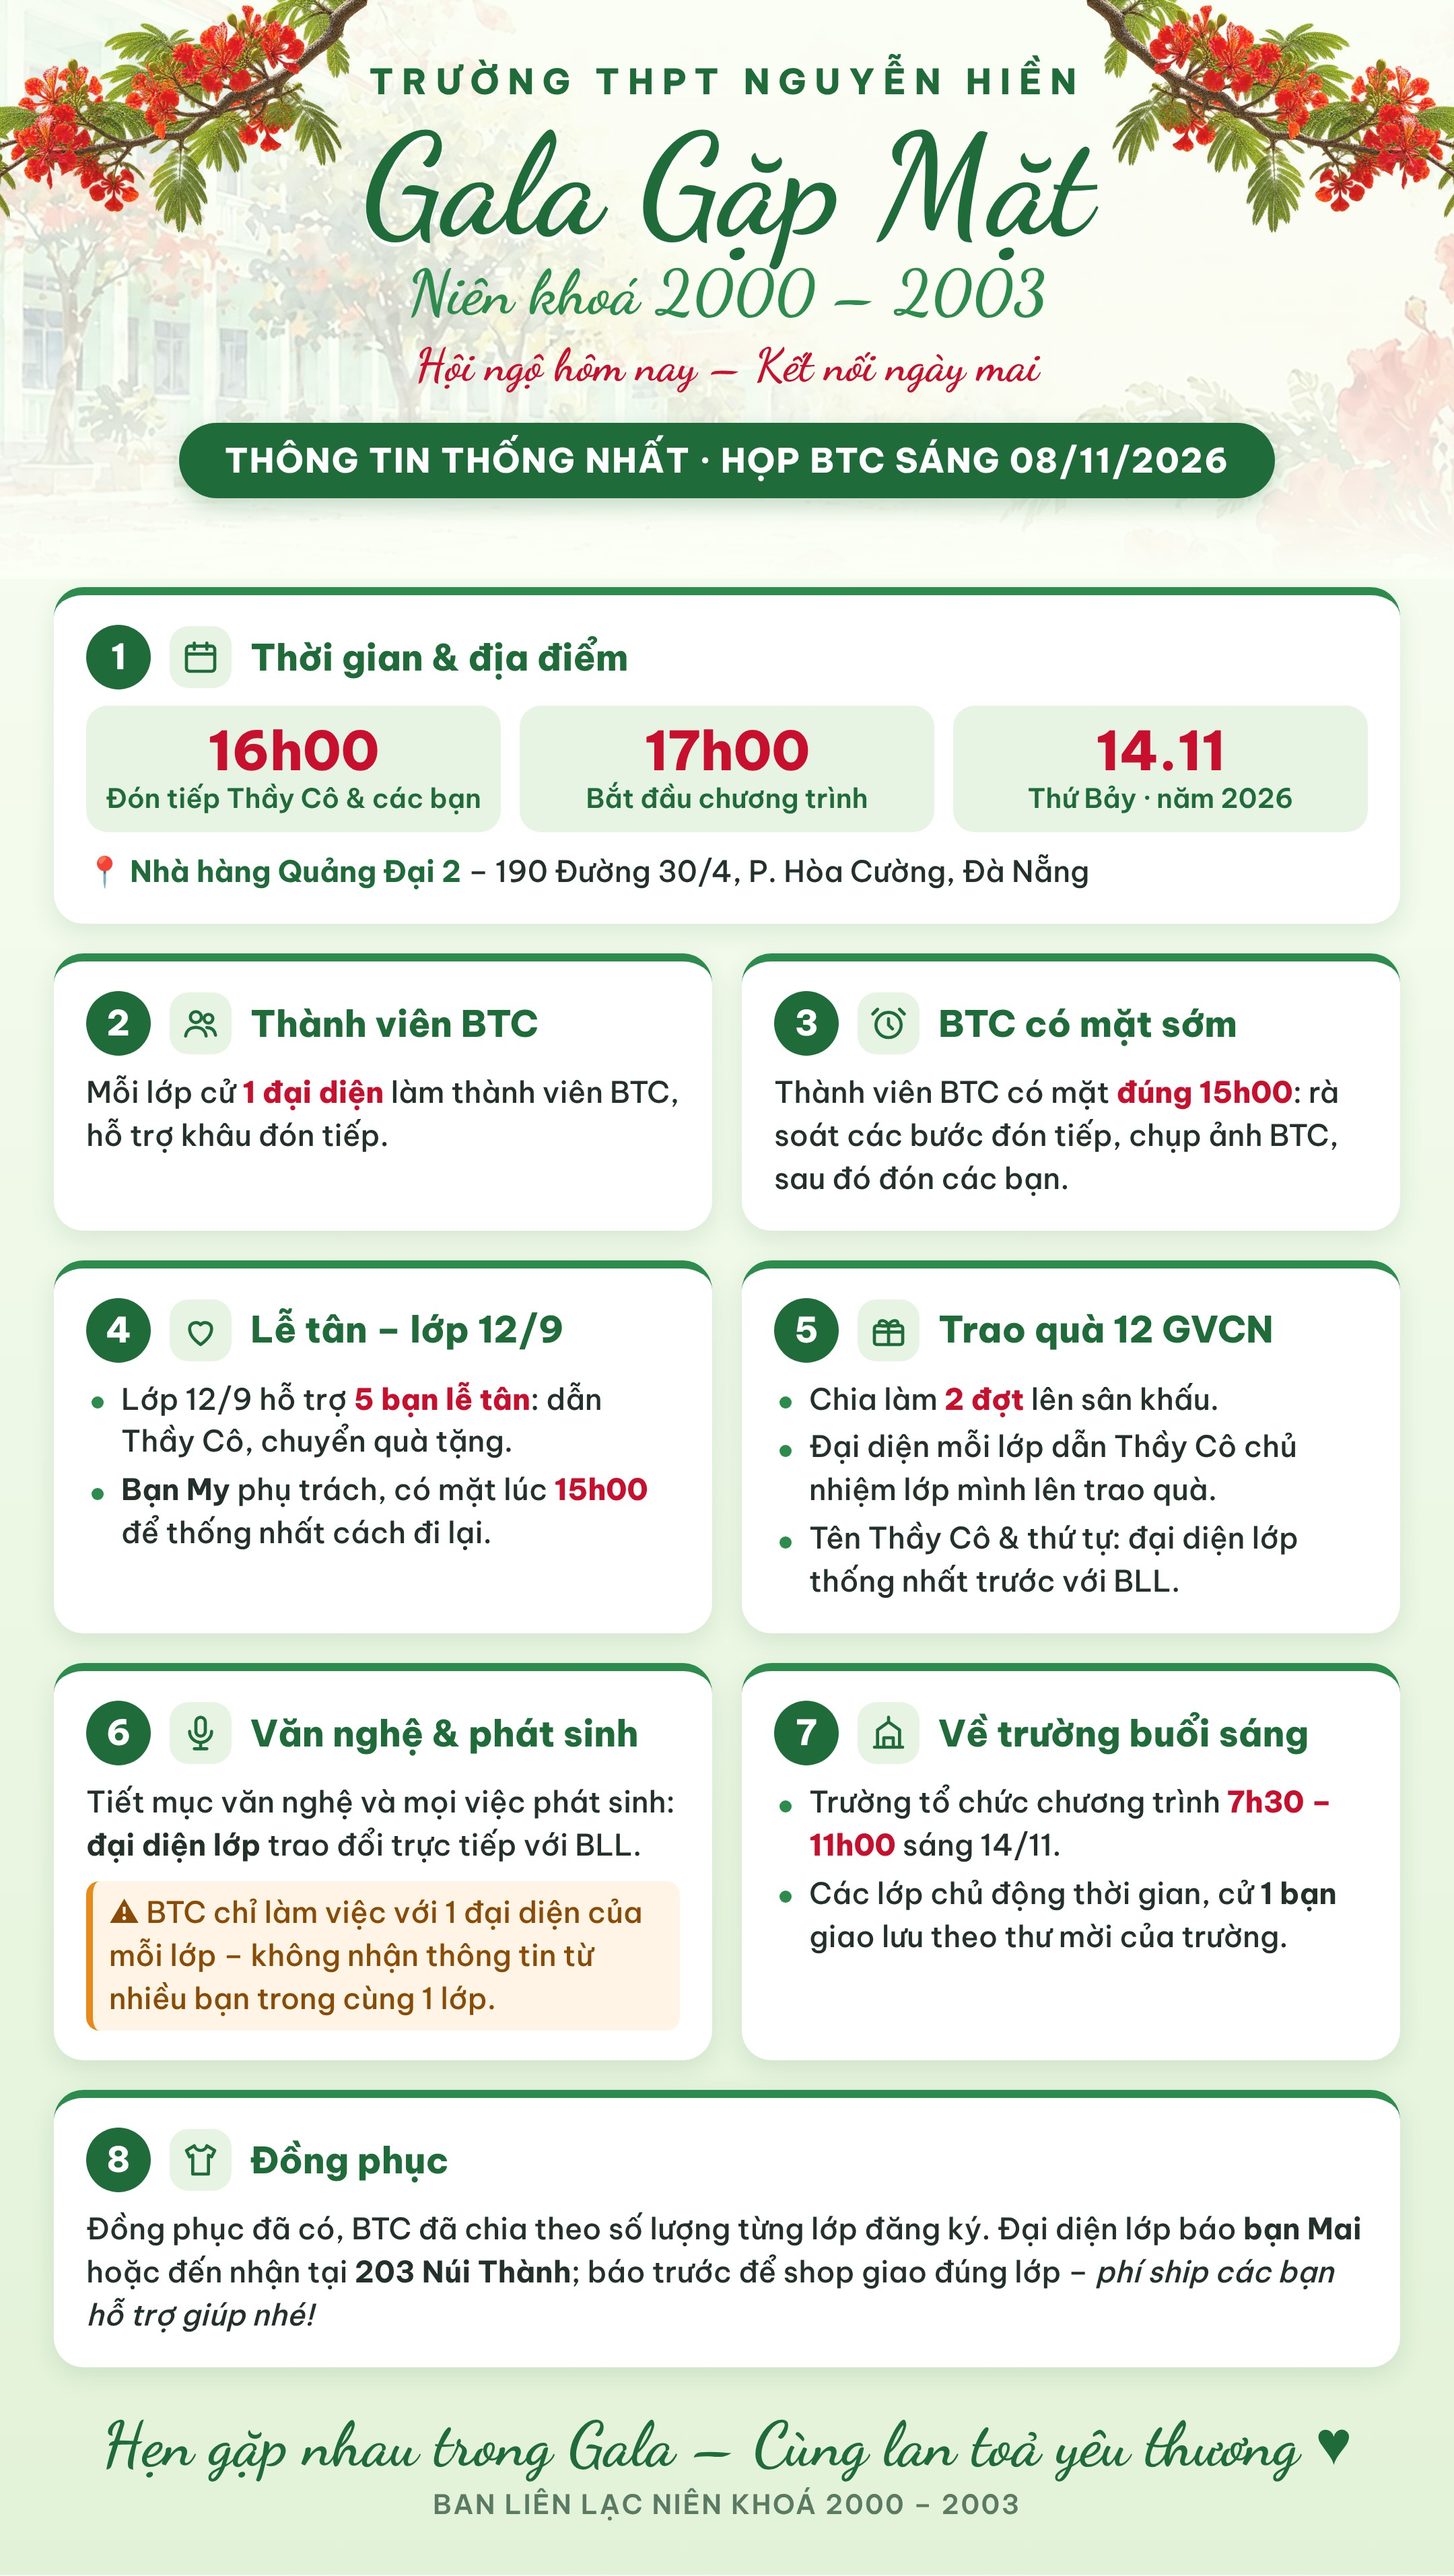
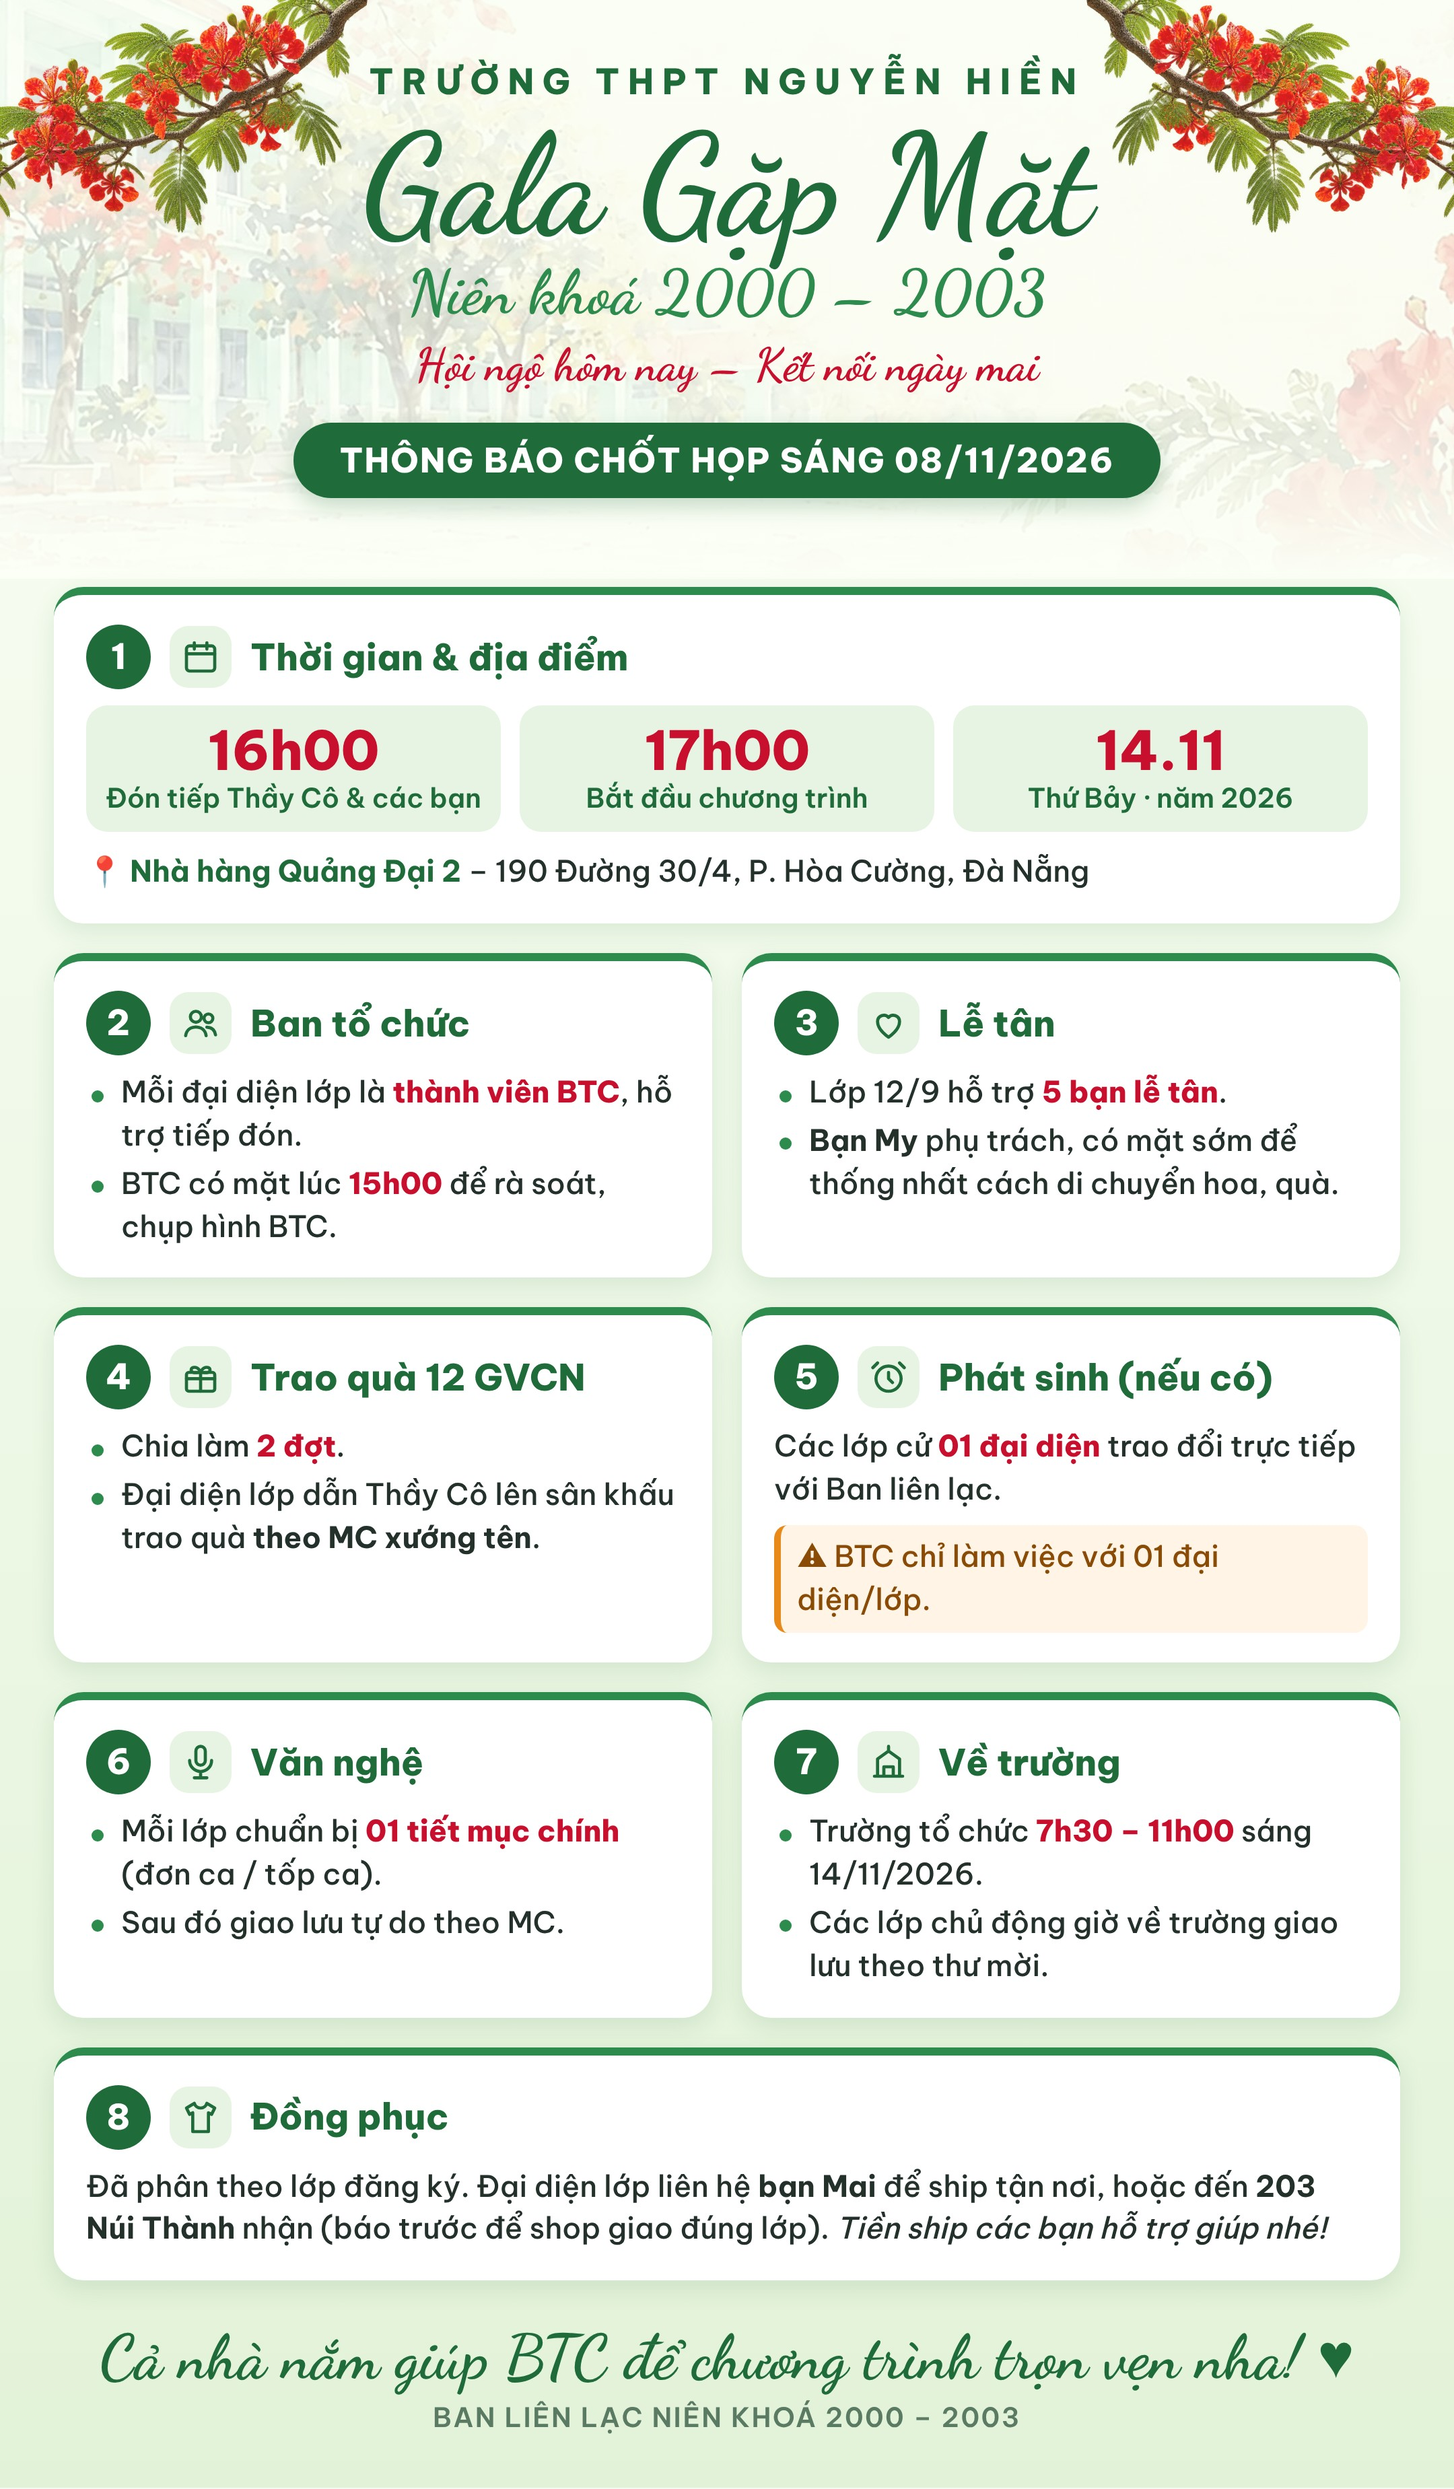
Bản tin họp 08/11: khớp nội dung chốt người dùng gửi (8 mục)
Claude-Session: https://claude.ai/code/session_01Y1ZWh7bFy81zQtocY5fDHA

Changed region(s): [[0.031, 0.0, 1.0, 0.9951], [0.0, 0.0, 0.2481, 0.1555]]

diff --git a/thiet-ke/thong-tin-hop-08-11/thong-tin.html b/thiet-ke/thong-tin-hop-08-11/thong-tin.html
@@ -43,34 +43,35 @@ b.do{color:var(--do);font-weight:800}
  <h1>Gala Gặp Mặt</h1>
  <p class="nk">Niên khoá 2000 – 2003</p>
  <p class="slg">Hội ngộ hôm nay – Kết nối ngày mai</p>
- <span class="bang">THÔNG TIN THỐNG NHẤT · HỌP BTC SÁNG 08/11/2026</span>
+ <span class="bang">THÔNG BÁO CHỐT HỌP SÁNG 08/11/2026</span>
 </div>
 <div class="luoi">
  <div class="the ca"><div class="td"><span class="so">1</span><span class="ic"><svg viewBox="0 0 24 24"><rect x="3" y="5" width="18" height="16" rx="2"/><path d="M16 3v4M8 3v4M3 10h18"/></svg></span><h2>Thời gian &amp; địa điểm</h2></div>
   <div class="gio"><div><b>16h00</b><span>Đón tiếp Thầy Cô &amp; các bạn</span></div><div><b>17h00</b><span>Bắt đầu chương trình</span></div><div><b>14.11</b><span>Thứ Bảy · năm 2026</span></div></div>
   <p class="dd">📍 <b>Nhà hàng Quảng Đại 2</b> – 190 Đường 30/4, P. Hòa Cường, Đà Nẵng</p></div>
 
- <div class="the"><div class="td"><span class="so">2</span><span class="ic"><svg viewBox="0 0 24 24"><circle cx="9" cy="8" r="3.5"/><path d="M2.5 20c.5-3.6 3.2-5.5 6.5-5.5s6 1.9 6.5 5.5"/><circle cx="17" cy="9" r="2.8"/><path d="M16 14.6c3 .1 5 1.8 5.5 4.9"/></svg></span><h2>Thành viên BTC</h2></div>
-  <p>Mỗi lớp cử <b class="do">1 đại diện</b> làm thành viên BTC, hỗ trợ khâu đón tiếp.</p></div>
+ <div class="the"><div class="td"><span class="so">2</span><span class="ic"><svg viewBox="0 0 24 24"><circle cx="9" cy="8" r="3.5"/><path d="M2.5 20c.5-3.6 3.2-5.5 6.5-5.5s6 1.9 6.5 5.5"/><circle cx="17" cy="9" r="2.8"/><path d="M16 14.6c3 .1 5 1.8 5.5 4.9"/></svg></span><h2>Ban tổ chức</h2></div>
+  <ul><li>Mỗi đại diện lớp là <b class="do">thành viên BTC</b>, hỗ trợ tiếp đón.</li><li>BTC có mặt lúc <b class="do">15h00</b> để rà soát, chụp hình BTC.</li></ul></div>
 
- <div class="the"><div class="td"><span class="so">3</span><span class="ic"><svg viewBox="0 0 24 24"><circle cx="12" cy="13" r="8"/><path d="M12 9v4l2.5 2.5M5 3 2 6M19 3l3 3"/></svg></span><h2>BTC có mặt sớm</h2></div>
-  <p>Thành viên BTC có mặt <b class="do">đúng 15h00</b>: rà soát các bước đón tiếp, chụp ảnh BTC, sau đó đón các bạn.</p></div>
+ <div class="the"><div class="td"><span class="so">3</span><span class="ic"><svg viewBox="0 0 24 24"><path d="M12 21s-7-4.4-7-10a4 4 0 0 1 7-2.6A4 4 0 0 1 19 11c0 5.6-7 10-7 10z"/></svg></span><h2>Lễ tân</h2></div>
+  <ul><li>Lớp 12/9 hỗ trợ <b class="do">5 bạn lễ tân</b>.</li><li><b>Bạn My</b> phụ trách, có mặt sớm để thống nhất cách di chuyển hoa, quà.</li></ul></div>
 
- <div class="the"><div class="td"><span class="so">4</span><span class="ic"><svg viewBox="0 0 24 24"><path d="M12 21s-7-4.4-7-10a4 4 0 0 1 7-2.6A4 4 0 0 1 19 11c0 5.6-7 10-7 10z"/></svg></span><h2>Lễ tân – lớp 12/9</h2></div>
-  <ul><li>Lớp 12/9 hỗ trợ <b class="do">5 bạn lễ tân</b>: dẫn Thầy Cô, chuyển quà tặng.</li><li><b>Bạn My</b> phụ trách, có mặt lúc <b class="do">15h00</b> để thống nhất cách đi lại.</li></ul></div>
+ <div class="the"><div class="td"><span class="so">4</span><span class="ic"><svg viewBox="0 0 24 24"><rect x="3" y="9" width="18" height="12" rx="1.5"/><path d="M3 13h18M12 9v12M12 9c-1.5-4-6-4-6-1.5S10 9 12 9zm0 0c1.5-4 6-4 6-1.5S14 9 12 9z"/></svg></span><h2>Trao quà 12 GVCN</h2></div>
+  <ul><li>Chia làm <b class="do">2 đợt</b>.</li><li>Đại diện lớp dẫn Thầy Cô lên sân khấu trao quà <b>theo MC xướng tên</b>.</li></ul></div>
 
- <div class="the"><div class="td"><span class="so">5</span><span class="ic"><svg viewBox="0 0 24 24"><rect x="3" y="9" width="18" height="12" rx="1.5"/><path d="M3 13h18M12 9v12M12 9c-1.5-4-6-4-6-1.5S10 9 12 9zm0 0c1.5-4 6-4 6-1.5S14 9 12 9z"/></svg></span><h2>Trao quà 12 GVCN</h2></div>
-  <ul><li>Chia làm <b class="do">2 đợt</b> lên sân khấu.</li><li>Đại diện mỗi lớp dẫn Thầy Cô chủ nhiệm lớp mình lên trao quà.</li><li>Tên Thầy Cô &amp; thứ tự: đại diện lớp thống nhất trước với BLL.</li></ul></div>
+ <div class="the"><div class="td"><span class="so">5</span><span class="ic"><svg viewBox="0 0 24 24"><circle cx="12" cy="13" r="8"/><path d="M12 9v4l2.5 2.5M5 3 2 6M19 3l3 3"/></svg></span><h2>Phát sinh (nếu có)</h2></div>
+  <p>Các lớp cử <b class="do">01 đại diện</b> trao đổi trực tiếp với Ban liên lạc.</p>
+  <p class="luu">⚠ BTC chỉ làm việc với 01 đại diện/lớp.</p></div>
 
- <div class="the"><div class="td"><span class="so">6</span><span class="ic"><svg viewBox="0 0 24 24"><rect x="9" y="2" width="6" height="12" rx="3"/><path d="M5 11a7 7 0 0 0 14 0M12 18v4M8 22h8"/></svg></span><h2>Văn nghệ &amp; phát sinh</h2></div>
-  <p>Tiết mục văn nghệ và mọi việc phát sinh: <b>đại diện lớp</b> trao đổi trực tiếp với BLL.</p>
-  <p class="luu">⚠ BTC chỉ làm việc với 1 đại diện của mỗi lớp – không nhận thông tin từ nhiều bạn trong cùng 1 lớp.</p></div>
+ <div class="the"><div class="td"><span class="so">6</span><span class="ic"><svg viewBox="0 0 24 24"><rect x="9" y="2" width="6" height="12" rx="3"/><path d="M5 11a7 7 0 0 0 14 0M12 18v4M8 22h8"/></svg></span><h2>Văn nghệ</h2></div>
+  <ul><li>Mỗi lớp chuẩn bị <b class="do">01 tiết mục chính</b> (đơn ca / tốp ca).</li><li>Sau đó giao lưu tự do theo MC.</li></ul></div>
 
- <div class="the"><div class="td"><span class="so">7</span><span class="ic"><svg viewBox="0 0 24 24"><path d="M3 21h18M5 21V10l7-5 7 5v11M9 21v-6h6v6M12 5V2"/></svg></span><h2>Về trường buổi sáng</h2></div>
-  <ul><li>Trường tổ chức chương trình <b class="do">7h30 – 11h00</b> sáng 14/11.</li><li>Các lớp chủ động thời gian, cử <b>1 bạn</b> giao lưu theo thư mời của trường.</li></ul></div>
+ <div class="the"><div class="td"><span class="so">7</span><span class="ic"><svg viewBox="0 0 24 24"><path d="M3 21h18M5 21V10l7-5 7 5v11M9 21v-6h6v6M12 5V2"/></svg></span><h2>Về trường</h2></div>
+  <ul><li>Trường tổ chức <b class="do">7h30 – 11h00</b> sáng 14/11/2026.</li><li>Các lớp chủ động giờ về trường giao lưu theo thư mời.</li></ul></div>
 
  <div class="the ca"><div class="td"><span class="so">8</span><span class="ic"><svg viewBox="0 0 24 24"><path d="M8 3 3 6l2 4 2-1v12h10V9l2 1 2-4-5-3c-.5 1.7-2 3-4 3S8.5 4.7 8 3z"/></svg></span><h2>Đồng phục</h2></div>
-  <p>Đồng phục đã có, BTC đã chia theo số lượng từng lớp đăng ký. Đại diện lớp báo <b>bạn Mai</b> hoặc đến nhận tại <b>203 Núi Thành</b>; báo trước để shop giao đúng lớp – <i>phí ship các bạn hỗ trợ giúp nhé!</i></p></div>
+  <p>Đã phân theo lớp đăng ký. Đại diện lớp liên hệ <b>bạn Mai</b> để ship tận nơi, hoặc đến <b>203 Núi Thành</b> nhận (báo trước để shop giao đúng lớp). <i>Tiền ship các bạn hỗ trợ giúp nhé!</i></p></div>
+
 </div>
-<p class="ket">Hẹn gặp nhau trong Gala – Cùng lan toả yêu thương ♥<small>BAN LIÊN LẠC NIÊN KHOÁ 2000 – 2003</small></p>
+<p class="ket">Cả nhà nắm giúp BTC để chương trình trọn vẹn nha! ♥<small>BAN LIÊN LẠC NIÊN KHOÁ 2000 – 2003</small></p>
 </div></body></html>
